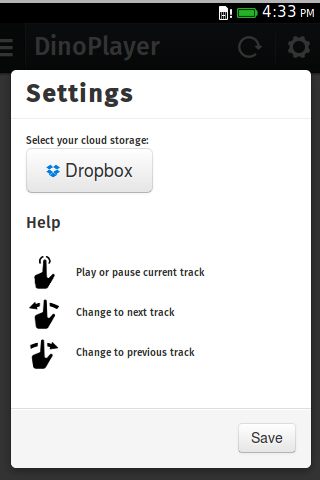
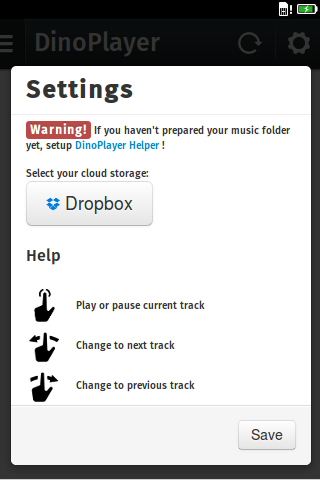
changelog added

diff --git a/CHANGELOG.md b/CHANGELOG.md
@@ -1,0 +1,18 @@
+# 1.0
+
+* initial release
+
+# 1.1
+
+<strong>Changes:</strong>
+<ul>
+<li>Little bugfixes</li>
+</ul>
+
+# 1.2
+
+<strong>Changes:</strong>
+<ul>
+<li>Warning message about necessary DinoPlayer Helper</li>
+<li>New backend + official site</li>
+</ul>

diff --git a/TODO.md b/TODO.md
@@ -4,3 +4,4 @@
 * player background
 * volume control
 * progress bar while loading
+* new progressbar
